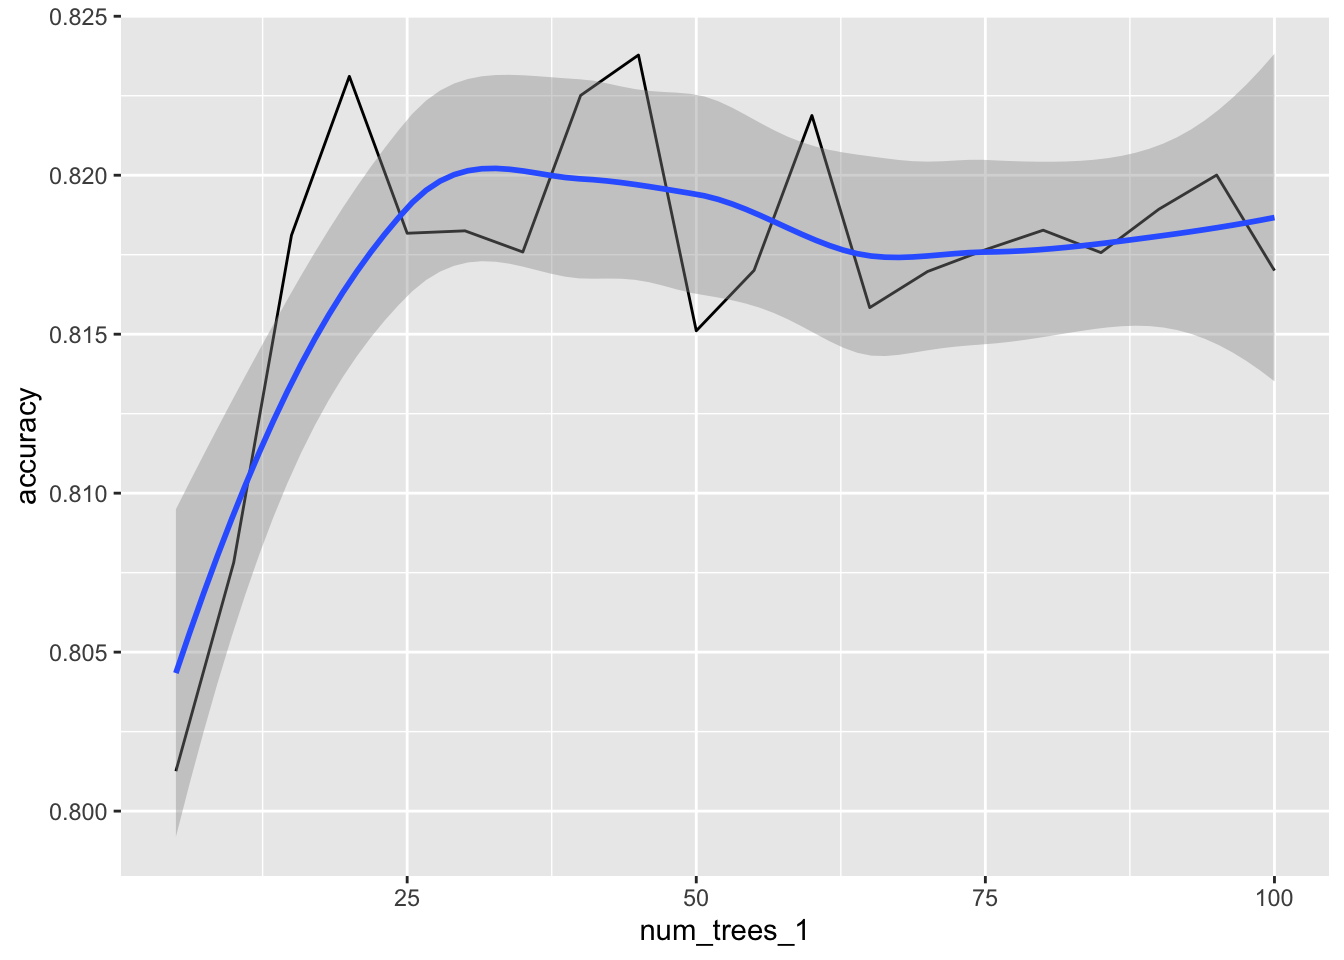
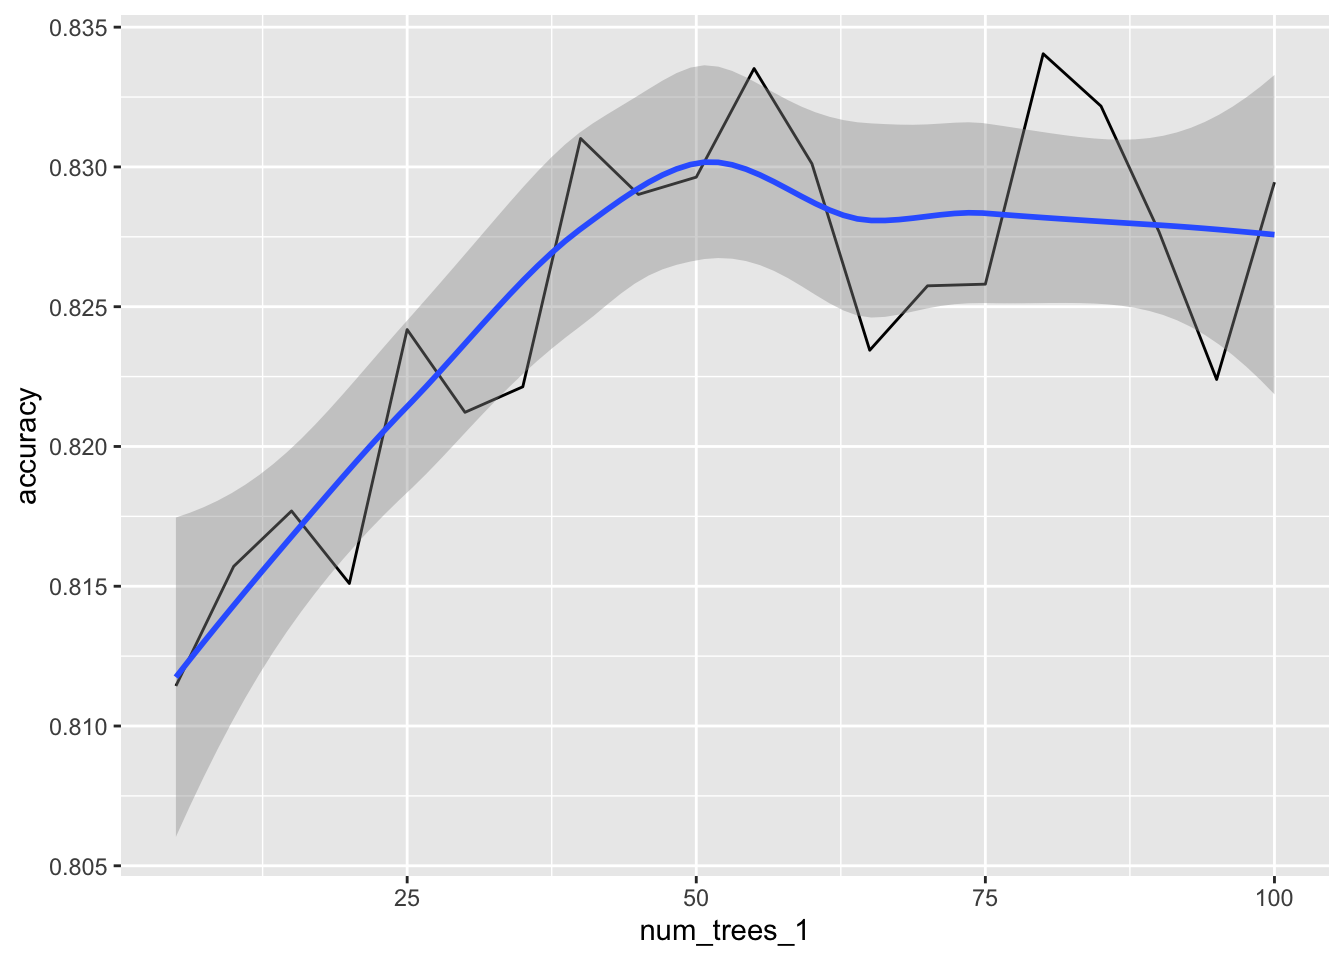
Minor updates

diff --git a/docs/guides/model_tuning.html b/docs/guides/model_tuning.html
@@ -237,7 +237,7 @@ ga('send', {
 
 </header>
 
-<p><strong>Hyper parameter tuning</strong> is possible within Spark. <code>sparklyr</code> provides an interface that makes it possible to setup, train, and measure running multiple model experiments in order to tune our models.</p>
+<p><strong>Hyper parameter tuning</strong> is possible within Spark. <code>sparklyr</code> provides an interface that makes it possible to setup, and run this kind of model tuning.</p>
 <p>This article walks through the basics of setting up and running a cross validation tuning run using the <code>cells</code> data from the <code>modeldata</code> package.</p>
 <div class="cell">
 <div class="sourceCode cell-code" id="cb1"><pre class="sourceCode r code-with-copy"><code class="sourceCode r"><span id="cb1-1"><a href="#cb1-1" aria-hidden="true" tabindex="-1"></a><span class="fu">data</span>(cells, <span class="at">package =</span> <span class="st">"modeldata"</span>)</span></code><button title="Copy to Clipboard" class="code-copy-button"><i class="bi"></i></button></pre></div>
@@ -384,20 +384,20 @@ ga('send', {
 <span id="cb10-3"><a href="#cb10-3" aria-hidden="true" tabindex="-1"></a>  <span class="at">estimator =</span> cells_pipeline, </span>
 <span id="cb10-4"><a href="#cb10-4" aria-hidden="true" tabindex="-1"></a>  <span class="at">estimator_param_maps =</span> cells_grid,</span>
 <span id="cb10-5"><a href="#cb10-5" aria-hidden="true" tabindex="-1"></a>  <span class="at">evaluator =</span> cells_evaluator,</span>
-<span id="cb10-6"><a href="#cb10-6" aria-hidden="true" tabindex="-1"></a>  <span class="at">num_folds =</span> <span class="dv">3</span>,</span>
-<span id="cb10-7"><a href="#cb10-7" aria-hidden="true" tabindex="-1"></a>  <span class="at">parallelism =</span> <span class="dv">1</span></span>
+<span id="cb10-6"><a href="#cb10-6" aria-hidden="true" tabindex="-1"></a>  <span class="at">num_folds =</span> <span class="dv">5</span>,</span>
+<span id="cb10-7"><a href="#cb10-7" aria-hidden="true" tabindex="-1"></a>  <span class="at">parallelism =</span> <span class="dv">4</span></span>
 <span id="cb10-8"><a href="#cb10-8" aria-hidden="true" tabindex="-1"></a>)</span>
 <span id="cb10-9"><a href="#cb10-9" aria-hidden="true" tabindex="-1"></a></span>
 <span id="cb10-10"><a href="#cb10-10" aria-hidden="true" tabindex="-1"></a>cells_cv</span>
 <span id="cb10-11"><a href="#cb10-11" aria-hidden="true" tabindex="-1"></a><span class="co">#&gt; CrossValidator (Estimator)</span></span>
-<span id="cb10-12"><a href="#cb10-12" aria-hidden="true" tabindex="-1"></a><span class="co">#&gt; &lt;cross_validator__46b71c67_08bf_4afd_b462_c65b7fc369bf&gt; </span></span>
+<span id="cb10-12"><a href="#cb10-12" aria-hidden="true" tabindex="-1"></a><span class="co">#&gt; &lt;cross_validator__ec69f1d9_f6ed_41ed_8bb2_3ab347638969&gt; </span></span>
 <span id="cb10-13"><a href="#cb10-13" aria-hidden="true" tabindex="-1"></a><span class="co">#&gt;  (Parameters -- Tuning)</span></span>
 <span id="cb10-14"><a href="#cb10-14" aria-hidden="true" tabindex="-1"></a><span class="co">#&gt;   estimator: Pipeline</span></span>
-<span id="cb10-15"><a href="#cb10-15" aria-hidden="true" tabindex="-1"></a><span class="co">#&gt;              &lt;pipeline__5a108123_a1e7_42af_a2d0_e4cc7b290a56&gt; </span></span>
+<span id="cb10-15"><a href="#cb10-15" aria-hidden="true" tabindex="-1"></a><span class="co">#&gt;              &lt;pipeline__8f76aeb5_4929_4b72_adf4_c66325fbc307&gt; </span></span>
 <span id="cb10-16"><a href="#cb10-16" aria-hidden="true" tabindex="-1"></a><span class="co">#&gt;   evaluator: MulticlassClassificationEvaluator</span></span>
-<span id="cb10-17"><a href="#cb10-17" aria-hidden="true" tabindex="-1"></a><span class="co">#&gt;              &lt;multiclass_classification_evaluator__ec7cad92_4702_42f3_a97a_53bce2dd021b&gt; </span></span>
+<span id="cb10-17"><a href="#cb10-17" aria-hidden="true" tabindex="-1"></a><span class="co">#&gt;              &lt;multiclass_classification_evaluator__f5e6d38f_9d66_4b81_8dba_44cd171b7aa1&gt; </span></span>
 <span id="cb10-18"><a href="#cb10-18" aria-hidden="true" tabindex="-1"></a><span class="co">#&gt;     with metric accuracy </span></span>
-<span id="cb10-19"><a href="#cb10-19" aria-hidden="true" tabindex="-1"></a><span class="co">#&gt;   num_folds: 3 </span></span>
+<span id="cb10-19"><a href="#cb10-19" aria-hidden="true" tabindex="-1"></a><span class="co">#&gt;   num_folds: 5 </span></span>
 <span id="cb10-20"><a href="#cb10-20" aria-hidden="true" tabindex="-1"></a><span class="co">#&gt;   [Tuned over 20 hyperparameter sets]</span></span></code><button title="Copy to Clipboard" class="code-copy-button"><i class="bi"></i></button></pre></div>
 </div>
 <p>The <code>ml_fit()</code> function will actually run the model tuning. This is where the <strong>training</strong> split of the data is used.</p>
@@ -416,26 +416,26 @@ ga('send', {
 <span id="cb12-2"><a href="#cb12-2" aria-hidden="true" tabindex="-1"></a></span>
 <span id="cb12-3"><a href="#cb12-3" aria-hidden="true" tabindex="-1"></a>cv_metrics</span>
 <span id="cb12-4"><a href="#cb12-4" aria-hidden="true" tabindex="-1"></a><span class="co">#&gt;     accuracy num_trees_1</span></span>
-<span id="cb12-5"><a href="#cb12-5" aria-hidden="true" tabindex="-1"></a><span class="co">#&gt; 1  0.8012555           5</span></span>
-<span id="cb12-6"><a href="#cb12-6" aria-hidden="true" tabindex="-1"></a><span class="co">#&gt; 2  0.8078181          10</span></span>
-<span id="cb12-7"><a href="#cb12-7" aria-hidden="true" tabindex="-1"></a><span class="co">#&gt; 3  0.8181159          15</span></span>
-<span id="cb12-8"><a href="#cb12-8" aria-hidden="true" tabindex="-1"></a><span class="co">#&gt; 4  0.8231090          20</span></span>
-<span id="cb12-9"><a href="#cb12-9" aria-hidden="true" tabindex="-1"></a><span class="co">#&gt; 5  0.8181751          25</span></span>
-<span id="cb12-10"><a href="#cb12-10" aria-hidden="true" tabindex="-1"></a><span class="co">#&gt; 6  0.8182511          30</span></span>
-<span id="cb12-11"><a href="#cb12-11" aria-hidden="true" tabindex="-1"></a><span class="co">#&gt; 7  0.8175854          35</span></span>
-<span id="cb12-12"><a href="#cb12-12" aria-hidden="true" tabindex="-1"></a><span class="co">#&gt; 8  0.8225095          40</span></span>
-<span id="cb12-13"><a href="#cb12-13" aria-hidden="true" tabindex="-1"></a><span class="co">#&gt; 9  0.8237798          45</span></span>
-<span id="cb12-14"><a href="#cb12-14" aria-hidden="true" tabindex="-1"></a><span class="co">#&gt; 10 0.8151062          50</span></span>
-<span id="cb12-15"><a href="#cb12-15" aria-hidden="true" tabindex="-1"></a><span class="co">#&gt; 11 0.8170078          55</span></span>
-<span id="cb12-16"><a href="#cb12-16" aria-hidden="true" tabindex="-1"></a><span class="co">#&gt; 12 0.8218778          60</span></span>
-<span id="cb12-17"><a href="#cb12-17" aria-hidden="true" tabindex="-1"></a><span class="co">#&gt; 13 0.8158358          65</span></span>
-<span id="cb12-18"><a href="#cb12-18" aria-hidden="true" tabindex="-1"></a><span class="co">#&gt; 14 0.8169709          70</span></span>
-<span id="cb12-19"><a href="#cb12-19" aria-hidden="true" tabindex="-1"></a><span class="co">#&gt; 15 0.8176567          75</span></span>
-<span id="cb12-20"><a href="#cb12-20" aria-hidden="true" tabindex="-1"></a><span class="co">#&gt; 16 0.8182708          80</span></span>
-<span id="cb12-21"><a href="#cb12-21" aria-hidden="true" tabindex="-1"></a><span class="co">#&gt; 17 0.8175657          85</span></span>
-<span id="cb12-22"><a href="#cb12-22" aria-hidden="true" tabindex="-1"></a><span class="co">#&gt; 18 0.8189295          90</span></span>
-<span id="cb12-23"><a href="#cb12-23" aria-hidden="true" tabindex="-1"></a><span class="co">#&gt; 19 0.8200054          95</span></span>
-<span id="cb12-24"><a href="#cb12-24" aria-hidden="true" tabindex="-1"></a><span class="co">#&gt; 20 0.8170005         100</span></span></code><button title="Copy to Clipboard" class="code-copy-button"><i class="bi"></i></button></pre></div>
+<span id="cb12-5"><a href="#cb12-5" aria-hidden="true" tabindex="-1"></a><span class="co">#&gt; 1  0.8114324           5</span></span>
+<span id="cb12-6"><a href="#cb12-6" aria-hidden="true" tabindex="-1"></a><span class="co">#&gt; 2  0.8157122          10</span></span>
+<span id="cb12-7"><a href="#cb12-7" aria-hidden="true" tabindex="-1"></a><span class="co">#&gt; 3  0.8176925          15</span></span>
+<span id="cb12-8"><a href="#cb12-8" aria-hidden="true" tabindex="-1"></a><span class="co">#&gt; 4  0.8150990          20</span></span>
+<span id="cb12-9"><a href="#cb12-9" aria-hidden="true" tabindex="-1"></a><span class="co">#&gt; 5  0.8241812          25</span></span>
+<span id="cb12-10"><a href="#cb12-10" aria-hidden="true" tabindex="-1"></a><span class="co">#&gt; 6  0.8212221          30</span></span>
+<span id="cb12-11"><a href="#cb12-11" aria-hidden="true" tabindex="-1"></a><span class="co">#&gt; 7  0.8221358          35</span></span>
+<span id="cb12-12"><a href="#cb12-12" aria-hidden="true" tabindex="-1"></a><span class="co">#&gt; 8  0.8310173          40</span></span>
+<span id="cb12-13"><a href="#cb12-13" aria-hidden="true" tabindex="-1"></a><span class="co">#&gt; 9  0.8290158          45</span></span>
+<span id="cb12-14"><a href="#cb12-14" aria-hidden="true" tabindex="-1"></a><span class="co">#&gt; 10 0.8296345          50</span></span>
+<span id="cb12-15"><a href="#cb12-15" aria-hidden="true" tabindex="-1"></a><span class="co">#&gt; 11 0.8335203          55</span></span>
+<span id="cb12-16"><a href="#cb12-16" aria-hidden="true" tabindex="-1"></a><span class="co">#&gt; 12 0.8301165          60</span></span>
+<span id="cb12-17"><a href="#cb12-17" aria-hidden="true" tabindex="-1"></a><span class="co">#&gt; 13 0.8234423          65</span></span>
+<span id="cb12-18"><a href="#cb12-18" aria-hidden="true" tabindex="-1"></a><span class="co">#&gt; 14 0.8257469          70</span></span>
+<span id="cb12-19"><a href="#cb12-19" aria-hidden="true" tabindex="-1"></a><span class="co">#&gt; 15 0.8258069          75</span></span>
+<span id="cb12-20"><a href="#cb12-20" aria-hidden="true" tabindex="-1"></a><span class="co">#&gt; 16 0.8340482          80</span></span>
+<span id="cb12-21"><a href="#cb12-21" aria-hidden="true" tabindex="-1"></a><span class="co">#&gt; 17 0.8321753          85</span></span>
+<span id="cb12-22"><a href="#cb12-22" aria-hidden="true" tabindex="-1"></a><span class="co">#&gt; 18 0.8276960          90</span></span>
+<span id="cb12-23"><a href="#cb12-23" aria-hidden="true" tabindex="-1"></a><span class="co">#&gt; 19 0.8223973          95</span></span>
+<span id="cb12-24"><a href="#cb12-24" aria-hidden="true" tabindex="-1"></a><span class="co">#&gt; 20 0.8294530         100</span></span></code><button title="Copy to Clipboard" class="code-copy-button"><i class="bi"></i></button></pre></div>
 </div>
 <p>For easier selection, we can use a quick plot to visualize how accuracy improves as more trees are used, and when does the benefit plateau.</p>
 <div class="cell" data-warnings="false">
@@ -452,13 +452,13 @@ ga('send', {
 </section>
 <section id="model-selection" class="level2">
 <h2 class="anchored" data-anchor-id="model-selection">Model selection</h2>
-<p>As seen in the previous section, 30 trees seems to be a good number to use. To finalize, a new model is fit, using that number for <code>num_trees</code>.</p>
+<p>As seen in the previous section, 50 trees seems to be a good number to use. To finalize, a new model is fit, using that number for <code>num_trees</code>.</p>
 <p>A Model pipeline or a regular model could be used to do this. For this example we will just use the single step of fitting a new model using <code>ml_random_forest_classifier()</code> directly.</p>
 <div class="cell">
 <div class="sourceCode cell-code" id="cb14"><pre class="sourceCode r code-with-copy"><code class="sourceCode r"><span id="cb14-1"><a href="#cb14-1" aria-hidden="true" tabindex="-1"></a>cell_model <span class="ot">&lt;-</span> <span class="fu">ml_random_forest_classifier</span>(</span>
 <span id="cb14-2"><a href="#cb14-2" aria-hidden="true" tabindex="-1"></a>  tbl_cells_split<span class="sc">$</span>training, </span>
 <span id="cb14-3"><a href="#cb14-3" aria-hidden="true" tabindex="-1"></a>  class <span class="sc">~</span> ., </span>
-<span id="cb14-4"><a href="#cb14-4" aria-hidden="true" tabindex="-1"></a>  <span class="at">num_trees =</span> <span class="dv">30</span></span>
+<span id="cb14-4"><a href="#cb14-4" aria-hidden="true" tabindex="-1"></a>  <span class="at">num_trees =</span> <span class="dv">50</span></span>
 <span id="cb14-5"><a href="#cb14-5" aria-hidden="true" tabindex="-1"></a>  )</span></code><button title="Copy to Clipboard" class="code-copy-button"><i class="bi"></i></button></pre></div>
 </div>
 </section>
@@ -472,7 +472,7 @@ ga('send', {
 <span id="cb15-4"><a href="#cb15-4" aria-hidden="true" tabindex="-1"></a><span class="co">#&gt; # A tibble: 1 × 3</span></span>
 <span id="cb15-5"><a href="#cb15-5" aria-hidden="true" tabindex="-1"></a><span class="co">#&gt;   .metric  .estimator .estimate</span></span>
 <span id="cb15-6"><a href="#cb15-6" aria-hidden="true" tabindex="-1"></a><span class="co">#&gt;   &lt;chr&gt;    &lt;chr&gt;          &lt;dbl&gt;</span></span>
-<span id="cb15-7"><a href="#cb15-7" aria-hidden="true" tabindex="-1"></a><span class="co">#&gt; 1 accuracy multiclass     0.823</span></span></code><button title="Copy to Clipboard" class="code-copy-button"><i class="bi"></i></button></pre></div>
+<span id="cb15-7"><a href="#cb15-7" aria-hidden="true" tabindex="-1"></a><span class="co">#&gt; 1 accuracy multiclass     0.839</span></span></code><button title="Copy to Clipboard" class="code-copy-button"><i class="bi"></i></button></pre></div>
 </div>
 
 
